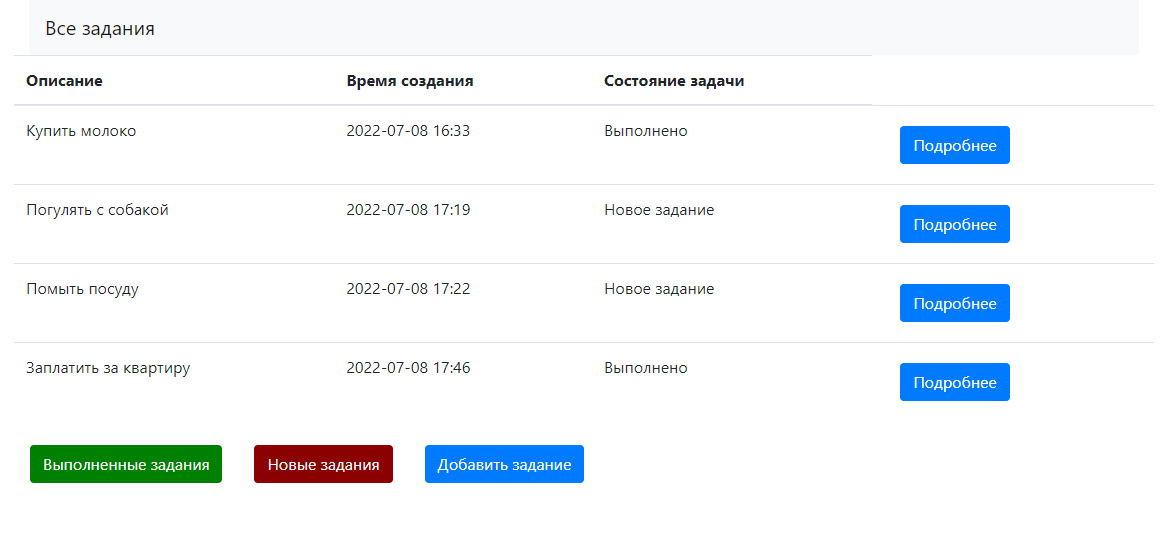
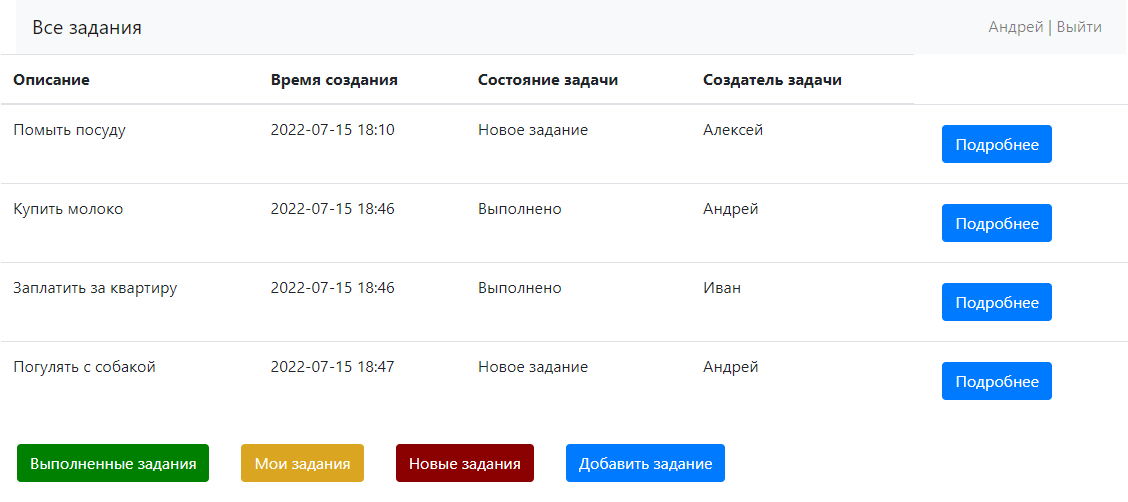
ToOne [#6873]

diff --git a/src/main/resources/templates/userTasks.html b/src/main/resources/templates/userTasks.html
@@ -4,6 +4,12 @@
     <meta charset="utf-8">
     <meta name="viewport" content="width=device-width, initial-scale=1, shrink-to-fit=no">
 
+    <style>
+        button {
+            border: none;
+        }
+    </style>
+
     <link rel="stylesheet" href="https://stackpath.bootstrapcdn.com/bootstrap/4.4.1/css/bootstrap.min.css"
           integrity="sha384-Vkoo8x4CGsO3+Hhxv8T/Q5PaXtkKtu6ug5TOeNV6gBiFeWPGFN9MuhOf23Q9Ifjh" crossorigin="anonymous">
     <script src="https://code.jquery.com/jquery-3.4.1.slim.min.js"
@@ -22,7 +28,7 @@
 <body>
 <div class="container">
     <nav class="navbar navbar-expand-lg navbar-light bg-light">
-        <a class="navbar-brand">Новые задания</a>
+        <a class="navbar-brand">Ваши задания, <small th:text="${account.name}"></small></a>
         <button class="navbar-toggler" type="button" data-toggle="collapse" data-target="#navbarNavAltMarkup" aria-controls="navbarNavAltMarkup" aria-expanded="false" aria-label="Toggle navigation">
             <span class="navbar-toggler-icon"></span>
         </button>
@@ -45,14 +51,17 @@
             <tr>
                 <th scope="col">Описание</th>
                 <th scope="col">Время создания</th>
-                <th scope="col">Создатель</th>
+                <th scope="col">Состояние задачи</th>
             </tr>
             </thead>
             <tbody>
-            <tr th:each="task: ${newTasks}">
+            <tr th:each="task: ${userTasks}">
                 <td th:text="${task.name}"></td>
                 <td th:text="${task.created}"></td>
-                <td th:text="${task.account.name}"></td>
+                <td th:switch="${task.done}">
+                    <span th:case="false">Новое задание</span>
+                    <span th:case="true">Выполнено</span>
+                </td>
                 <td>
                     <a class="nav-item nav-link" th:href="@{|/task/${task.id}|}">
                         <button type="submit" class="btn btn-primary">Подробнее</button>
@@ -64,11 +73,14 @@
         <a class="nav-item nav-link" th:href="@{/tasks}">
             <button type="submit" class="btn btn-primary">Все задания</button>
         </a>
-        <a class="nav-item nav-link" th:href="@{/userTasks}">
-            <button type="submit" class="btn btn-primary" style="background-color: goldenrod; border-color: goldenrod">Мои задания</button>
-        </a>
         <a class="nav-item nav-link" th:href="@{/completedTasks}">
             <button type="submit" class="btn btn-primary" style="background-color: green; border-color: green">Выполненные задания</button>
+        </a>
+        <a class="nav-item nav-link" th:href="@{/newTasks}">
+            <button type="submit" class="btn btn-primary" style="background-color: darkred; border-color: darkred">Новые задания</button>
+        </a>
+        <a class="nav-item nav-link" th:href="@{/addTask}">
+            <button type="submit" class="btn btn-primary">Добавить задание</button>
         </a>
     </div>
 </div>

diff --git a/src/main/resources/templates/tasks.html b/src/main/resources/templates/tasks.html
@@ -52,6 +52,7 @@
                 <th scope="col">Описание</th>
                 <th scope="col">Время создания</th>
                 <th scope="col">Состояние задачи</th>
+                <th scope="col">Создатель задачи</th>
             </tr>
             </thead>
             <tbody>
@@ -62,6 +63,7 @@
                     <span th:case="false">Новое задание</span>
                     <span th:case="true">Выполнено</span>
                 </td>
+                <td th:text="${task.account.name}"></td>
                 <td>
                     <a class="nav-item nav-link" th:href="@{|/task/${task.id}|}">
                         <button type="submit" class="btn btn-primary">Подробнее</button>
@@ -72,6 +74,9 @@
         </table>
         <a class="nav-item nav-link" th:href="@{/completedTasks}">
             <button type="submit" class="btn btn-primary" style="background-color: green; border-color: green">Выполненные задания</button>
+        </a>
+        <a class="nav-item nav-link" th:href="@{/userTasks}">
+            <button type="submit" class="btn btn-primary" style="background-color: goldenrod; border-color: goldenrod">Мои задания</button>
         </a>
         <a class="nav-item nav-link" th:href="@{/newTasks}">
             <button type="submit" class="btn btn-primary" style="background-color: darkred; border-color: darkred">Новые задания</button>

diff --git a/src/main/resources/templates/completedTasks.html b/src/main/resources/templates/completedTasks.html
@@ -45,12 +45,14 @@
             <tr>
                 <th scope="col">Описание</th>
                 <th scope="col">Время создания</th>
+                <th scope="col">Создатель</th>
             </tr>
             </thead>
             <tbody>
             <tr th:each="task: ${completed}">
                 <td th:text="${task.name}"></td>
                 <td th:text="${task.created}"></td>
+                <td th:text="${task.account.name}"></td>
                 <td>
                     <a class="nav-item nav-link" th:href="@{|/task/${task.id}|}">
                         <button type="submit" class="btn btn-primary">Подробнее</button>
@@ -61,6 +63,9 @@
         </table>
         <a class="nav-item nav-link" th:href="@{/tasks}">
             <button type="submit" class="btn btn-primary">Все задания</button>
+        </a>
+        <a class="nav-item nav-link" th:href="@{/userTasks}">
+            <button type="submit" class="btn btn-primary" style="background-color: goldenrod; border-color: goldenrod">Мои задания</button>
         </a>
         <a class="nav-item nav-link" th:href="@{/newTasks}">
             <button type="submit" class="btn btn-primary" style="background-color: darkred; border-color: darkred">Новые задания</button>

diff --git a/src/main/resources/templates/task.html b/src/main/resources/templates/task.html
@@ -45,6 +45,7 @@
             <tr>
                 <th scope="col">Описание</th>
                 <th scope="col">Время создания</th>
+                <th scope="col">Создатель</th>
                 <th scope="col" style="text-align: center">Состояние</th>
             </tr>
             </thead>
@@ -52,6 +53,7 @@
             <tr>
                 <td th:text="${task.description}"></td>
                 <td th:text="${task.created}"></td>
+                <td th:text="${task.account.name}"></td>
                 <td style="text-align: center" th:switch="${task.done}">
                     <span th:case="false">
                         Новое задание

diff --git a/src/main/java/ru/job4j/todo/model/Item.java b/src/main/java/ru/job4j/todo/model/Item.java
@@ -17,14 +17,19 @@ public class Item {
 
     private boolean done;
 
+    @ManyToOne
+    @JoinColumn(name = "account_id")
+    private Account account;
+
     public Item() {
     }
 
-    public Item(String name, String description, String created, boolean done) {
+    public Item(String name, String description, String created, boolean done, Account account) {
         this.name = name;
         this.description = description;
         this.created = created;
         this.done = done;
+        this.account = account;
     }
 
     public int getId() {
@@ -65,5 +70,13 @@ public class Item {
 
     public void setDone(boolean done) {
         this.done = done;
+    }
+
+    public Account getAccount() {
+        return account;
+    }
+
+    public void setAccount(Account account) {
+        this.account = account;
     }
 }

diff --git a/src/main/java/ru/job4j/todo/persistence/ItemDbStore.java b/src/main/java/ru/job4j/todo/persistence/ItemDbStore.java
@@ -45,13 +45,20 @@ public class ItemDbStore implements IStore {
     }
 
     public List<Item> findAll() {
-        return tx(session -> session.createQuery("from Item").list(), sf);
+        return tx(session -> session.createQuery("from Item order by created").list(), sf);
     }
 
     public Item findById(int id) {
         return (Item) tx(session -> session.createQuery("from Item i where i.id = :fId")
                         .setParameter("fId", id)
                         .getSingleResult(),
+                sf);
+    }
+
+    public List<Item> findByAccountId(int accountId) {
+        return tx(session -> session.createQuery("from Item i where i.account.id = :fAccId")
+                        .setParameter("fAccId", accountId)
+                        .getResultList(),
                 sf);
     }
 

diff --git a/src/main/java/ru/job4j/todo/controller/ItemController.java b/src/main/java/ru/job4j/todo/controller/ItemController.java
@@ -50,6 +50,14 @@ public class ItemController {
         return "newTasks";
     }
 
+    @GetMapping("/userTasks")
+    public String userTasks(Model model, HttpSession session) {
+        Account account = (Account) session.getAttribute("account");
+        model.addAttribute("userTasks", service.findByAccountId(account.getId()));
+        setAccountToModel(model, session);
+        return "userTasks";
+    }
+
     @GetMapping("/addTask")
     public String addTask(Model model, HttpSession session) {
         setAccountToModel(model, session);

diff --git a/src/main/java/ru/job4j/todo/service/ItemService.java b/src/main/java/ru/job4j/todo/service/ItemService.java
@@ -34,6 +34,10 @@ public class ItemService {
         return store.findById(id);
     }
 
+    public List<Item> findByAccountId(int accountId) {
+        return store.findByAccountId(accountId);
+    }
+
     public List<Item> findCompletedTasks() {
         return store.findCompletedTasks();
     }

diff --git a/README.md b/README.md
@@ -14,6 +14,8 @@
 ![HTML5](https://img.shields.io/badge/HTML5-E34F26?style=for-the-badge&logo=html5&logoColor=white)
 ![Bootstrap](https://img.shields.io/badge/Bootstrap-563D7C?style=for-the-badge&logo=bootstrap&logoColor=white)
 
+<a name="tech"><h2>Скриншоты приложения</h2></a>
+
 Страница авторизации пользователя в приложении:
 ![authorizationPage](src/main/resources/attachments/authorizationPage.png)
 
@@ -24,15 +26,19 @@
 ![allTasksPage](src/main/resources/attachments/allTasks.png)
 У каждого задания в списке можно прочесть его конкретное описание, нажав кнопку "Подробнее".
 Переходы ниже таблицы заданий ведут на страницы с выполненными либо невыполненными заданиями, 
-также можно добавить новое задание.
+также можно просмотреть только задания залогиненного пользователя, либо добавить новое задание.
 
 
 Страница с завершенными заданиями:
-![completedTasksPage](src/main/resources/attachments/completedTasks.png)
+![completedTasksPage](src/main/resources/attachments/complTasks.png)
 
 
 Страница с новыми заданиями:
-![newTasksPage](src/main/resources/attachments/newTasks.png)
+![newTasksPage](src/main/resources/attachments/newTask.png)
+
+
+Страница с заданиями залогиненного в текущий момент пользователя:
+![userTasksPage](src/main/resources/attachments/userTasks.png)
 
 
 Страница добавления нового задания:
